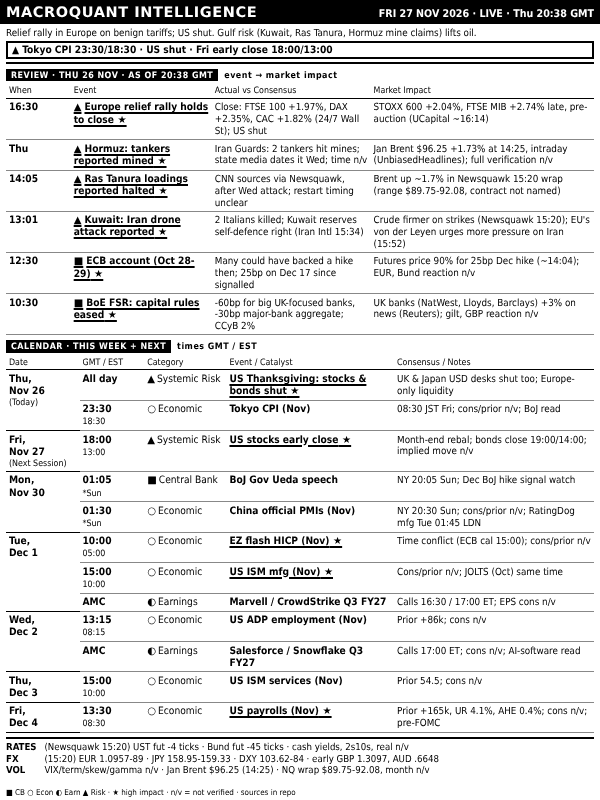
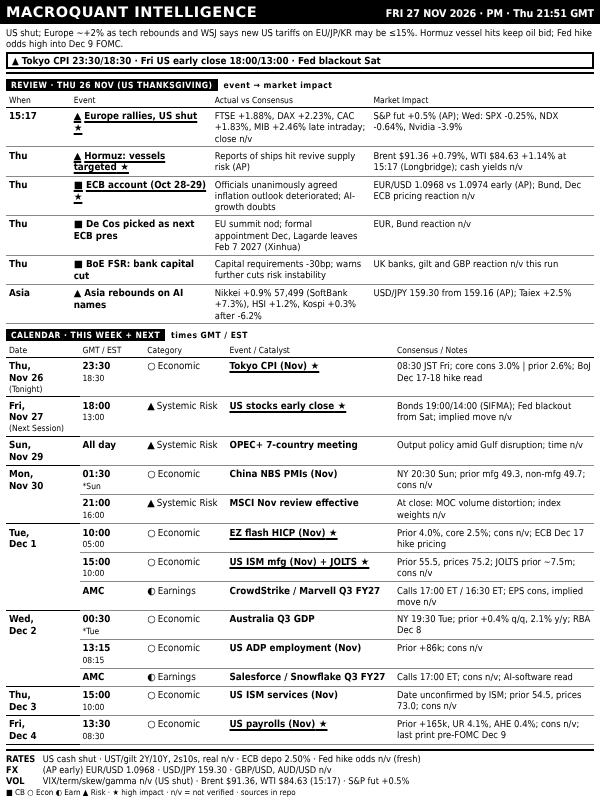
dashboard: FRI 27 NOV 2026 PM
Claude-Session: https://claude.ai/code/session_016SJqa5stF1cvDCcfLSi4AD

Changed region(s): [[0.0, 0.0, 0.99, 1.0], [0.0, 0.75, 0.06, 0.8125], [0.0, 0.6562, 0.06, 0.7188]]

diff --git a/out/dashboard.html b/out/dashboard.html
@@ -38,12 +38,12 @@ table.bd{border-collapse:collapse;width:100%;table-layout:fixed;margin-top:1px}
 </style></head><body>
 <div id="root">
  <div class="hdr"><span class="t">MACROQUANT INTELLIGENCE</span>
-  <span class="r">FRI 27 NOV 2026 · LIVE · Thu 20:38 GMT</span></div>
- <div class="ban"><div class="rg">Relief rally in Europe on benign tariffs; US shut. Gulf risk (Kuwait, Ras Tanura, Hormuz mine claims) lifts oil.</div><div class="al">▲ Tokyo CPI 23:30/18:30 · US shut · Fri early close 18:00/13:00</div></div>
- <div class="sl"><span>REVIEW · THU 26 NOV · AS OF 20:38 GMT</span>event → market impact</div><table class="bd rv"><colgroup><col style="width:11%"><col style="width:24%"><col style="width:27%"><col></colgroup><tr><th>When</th><th>Event</th><th>Actual vs Consensus</th><th>Market Impact</th></tr><tr class="h"><td class="tm"><b>16:30</b></td><td class="ev"><i>▲</i>Europe relief rally holds to close</td><td class="ac">Close: FTSE 100 +1.97%, DAX +2.35%, CAC +1.82% (24/7 Wall St); US shut</td><td class="nt">STOXX 600 +2.04%, FTSE MIB +2.74% late, pre-auction (UCapital ~16:14)</td></tr><tr class="h"><td class="tm"><b>Thu</b></td><td class="ev"><i>▲</i>Hormuz: tankers reported mined</td><td class="ac">Iran Guards: 2 tankers hit mines; state media dates it Wed; time n/v</td><td class="nt">Jan Brent $96.25 +1.73% at 14:25, intraday (UnbiasedHeadlines); full verification n/v</td></tr><tr class="h"><td class="tm"><b>14:05</b></td><td class="ev"><i>▲</i>Ras Tanura loadings reported halted</td><td class="ac">CNN sources via Newsquawk, after Wed attack; restart timing unclear</td><td class="nt">Brent up ~1.7% in Newsquawk 15:20 wrap (range $89.75-92.08, contract not named)</td></tr><tr class="h"><td class="tm"><b>13:01</b></td><td class="ev"><i>▲</i>Kuwait: Iran drone attack reported</td><td class="ac">2 Italians killed; Kuwait reserves self-defence right (Iran Intl 15:34)</td><td class="nt">Crude firmer on strikes (Newsquawk 15:20); EU's von der Leyen urges more pressure on Iran (15:52)</td></tr><tr class="h"><td class="tm"><b>12:30</b></td><td class="ev"><i>■</i>ECB account (Oct 28-29)</td><td class="ac">Many could have backed a hike then; 25bp on Dec 17 since signalled</td><td class="nt">Futures price 90% for 25bp Dec hike (~14:04); EUR, Bund reaction n/v</td></tr><tr class="h"><td class="tm"><b>10:30</b></td><td class="ev"><i>■</i>BoE FSR: capital rules eased</td><td class="ac">-60bp for big UK-focused banks, -30bp major-bank aggregate; CCyB 2%</td><td class="nt">UK banks (NatWest, Lloyds, Barclays) +3% on news (Reuters); gilt, GBP reaction n/v</td></tr></table>
+  <span class="r">FRI 27 NOV 2026 · PM · Thu 21:51 GMT</span></div>
+ <div class="ban"><div class="rg">US shut; Europe ~+2% as tech rebounds and WSJ says new US tariffs on EU/JP/KR may be ≤15%. Hormuz vessel hits keep oil bid; Fed hike odds high into Dec 9 FOMC.</div><div class="al">▲ Tokyo CPI 23:30/18:30 · Fri US early close 18:00/13:00 · Fed blackout Sat</div></div>
+ <div class="sl"><span>REVIEW · THU 26 NOV (US THANKSGIVING)</span>event → market impact</div><table class="bd rv"><colgroup><col style="width:11%"><col style="width:24%"><col style="width:27%"><col></colgroup><tr><th>When</th><th>Event</th><th>Actual vs Consensus</th><th>Market Impact</th></tr><tr class="h"><td class="tm"><b>15:17</b></td><td class="ev"><i>▲</i>Europe rallies, US shut</td><td class="ac">FTSE +1.88%, DAX +2.23%, CAC +1.83%, MIB +2.46% late intraday; close n/v</td><td class="nt">S&amp;P fut +0.5% (AP); Wed: SPX -0.25%, NDX -0.64%, Nvidia -3.9%</td></tr><tr class="h"><td class="tm"><b>Thu</b></td><td class="ev"><i>▲</i>Hormuz: vessels targeted</td><td class="ac">Reports of ships hit revive supply risk (AP)</td><td class="nt">Brent $91.36 +0.79%, WTI $84.63 +1.14% at 15:17 (Longbridge); cash yields n/v</td></tr><tr class="h"><td class="tm"><b>Thu</b></td><td class="ev"><i>■</i>ECB account (Oct 28-29)</td><td class="ac">Officials unanimously agreed inflation outlook deteriorated; AI-growth doubts</td><td class="nt">EUR/USD 1.0968 vs 1.0974 early (AP); Bund, Dec ECB pricing reaction n/v</td></tr><tr><td class="tm"><b>Thu</b></td><td class="ev"><i>■</i>De Cos picked as next ECB pres</td><td class="ac">EU summit nod; formal appointment Dec, Lagarde leaves Feb 7 2027 (Xinhua)</td><td class="nt">EUR, Bund reaction n/v</td></tr><tr><td class="tm"><b>Thu</b></td><td class="ev"><i>■</i>BoE FSR: bank capital cut</td><td class="ac">Capital requirements -30bp; warns further cuts risk instability</td><td class="nt">UK banks, gilt and GBP reaction n/v this run</td></tr><tr><td class="tm"><b>Asia</b></td><td class="ev"><i>▲</i>Asia rebounds on AI names</td><td class="ac">Nikkei +0.9% 57,499 (SoftBank +7.3%), HSI +1.2%, Kospi +0.3% after -6.2%</td><td class="nt">USD/JPY 159.30 from 159.16 (AP); Taiex +2.5%</td></tr></table>
  <div class="sl"><span>CALENDAR · THIS WEEK + NEXT</span>times GMT / EST</div>
- <table class="bd"><colgroup><col style="width:12.5%"><col style="width:11%"><col style="width:14%"><col style="width:28.5%"><col></colgroup><tr><th>Date</th><th>GMT / EST</th><th>Category</th><th>Event / Catalyst</th><th>Consensus / Notes</th></tr><tr class="g0 h"><td class="dt" rowspan="2">Thu,<br>Nov&nbsp;26<span class="tg">(Today)</span></td><td class="tm"><b>All day</b></td><td class="ct"><i>▲</i>Systemic Risk</td><td class="ev">US Thanksgiving: stocks &amp; bonds shut</td><td class="nt">UK &amp; Japan USD desks shut too; Europe-only liquidity</td></tr><tr class=""><td class="tm"><b>23:30</b><span>18:30</span></td><td class="ct"><i>○</i>Economic</td><td class="ev">Tokyo CPI (Nov)</td><td class="nt">08:30 JST Fri; cons/prior n/v; BoJ read</td></tr><tr class="g0 h"><td class="dt" rowspan="1">Fri,<br>Nov&nbsp;27<span class="tg">(Next Session)</span></td><td class="tm"><b>18:00</b><span>13:00</span></td><td class="ct"><i>▲</i>Systemic Risk</td><td class="ev">US stocks early close</td><td class="nt">Month-end rebal; bonds close 19:00/14:00; implied move n/v</td></tr><tr class="g0"><td class="dt" rowspan="2">Mon,<br>Nov&nbsp;30</td><td class="tm"><b>01:05</b><span>*Sun</span></td><td class="ct"><i>■</i>Central Bank</td><td class="ev">BoJ Gov Ueda speech</td><td class="nt">NY 20:05 Sun; Dec BoJ hike signal watch</td></tr><tr class=""><td class="tm"><b>01:30</b><span>*Sun</span></td><td class="ct"><i>○</i>Economic</td><td class="ev">China official PMIs (Nov)</td><td class="nt">NY 20:30 Sun; cons/prior n/v; RatingDog mfg Tue 01:45 LDN</td></tr><tr class="g0 h"><td class="dt" rowspan="3">Tue,<br>Dec&nbsp;1</td><td class="tm"><b>10:00</b><span>05:00</span></td><td class="ct"><i>○</i>Economic</td><td class="ev">EZ flash HICP (Nov)</td><td class="nt">Time conflict (ECB cal 15:00); cons/prior n/v</td></tr><tr class="h"><td class="tm"><b>15:00</b><span>10:00</span></td><td class="ct"><i>○</i>Economic</td><td class="ev">US ISM mfg (Nov)</td><td class="nt">Cons/prior n/v; JOLTS (Oct) same time</td></tr><tr class=""><td class="tm"><b>AMC</b></td><td class="ct"><i>◐</i>Earnings</td><td class="ev">Marvell / CrowdStrike Q3 FY27</td><td class="nt">Calls 16:30 / 17:00 ET; EPS cons n/v</td></tr><tr class="g0"><td class="dt" rowspan="2">Wed,<br>Dec&nbsp;2</td><td class="tm"><b>13:15</b><span>08:15</span></td><td class="ct"><i>○</i>Economic</td><td class="ev">US ADP employment (Nov)</td><td class="nt">Prior +86k; cons n/v</td></tr><tr class=""><td class="tm"><b>AMC</b></td><td class="ct"><i>◐</i>Earnings</td><td class="ev">Salesforce / Snowflake Q3 FY27</td><td class="nt">Calls 17:00 ET; cons n/v; AI-software read</td></tr><tr class="g0"><td class="dt" rowspan="1">Thu,<br>Dec&nbsp;3</td><td class="tm"><b>15:00</b><span>10:00</span></td><td class="ct"><i>○</i>Economic</td><td class="ev">US ISM services (Nov)</td><td class="nt">Prior 54.5; cons n/v</td></tr><tr class="g0 h"><td class="dt" rowspan="1">Fri,<br>Dec&nbsp;4</td><td class="tm"><b>13:30</b><span>08:30</span></td><td class="ct"><i>○</i>Economic</td><td class="ev">US payrolls (Nov)</td><td class="nt">Prior +165k, UR 4.1%, AHE 0.4%; cons n/v; pre-FOMC</td></tr></table>
- <div class="lv"><div><b>RATES</b>(Newsquawk 15:20) UST fut -4 ticks · Bund fut -45 ticks · cash yields, 2s10s, real n/v</div><div><b>FX</b>(15:20) EUR 1.0957-89 · JPY 158.95-159.33 · DXY 103.62-84 · early GBP 1.3097, AUD .6648</div><div><b>VOL</b>VIX/term/skew/gamma n/v · Jan Brent $96.25 (14:25) · NQ wrap $89.75-92.08, month n/v</div></div>
+ <table class="bd"><colgroup><col style="width:12.5%"><col style="width:11%"><col style="width:14%"><col style="width:28.5%"><col></colgroup><tr><th>Date</th><th>GMT / EST</th><th>Category</th><th>Event / Catalyst</th><th>Consensus / Notes</th></tr><tr class="g0 h"><td class="dt" rowspan="1">Thu,<br>Nov&nbsp;26<span class="tg">(Tonight)</span></td><td class="tm"><b>23:30</b><span>18:30</span></td><td class="ct"><i>○</i>Economic</td><td class="ev">Tokyo CPI (Nov)</td><td class="nt">08:30 JST Fri; core cons 3.0% | prior 2.6%; BoJ Dec 17-18 hike read</td></tr><tr class="g0 h"><td class="dt" rowspan="1">Fri,<br>Nov&nbsp;27<span class="tg">(Next Session)</span></td><td class="tm"><b>18:00</b><span>13:00</span></td><td class="ct"><i>▲</i>Systemic Risk</td><td class="ev">US stocks early close</td><td class="nt">Bonds 19:00/14:00 (SIFMA); Fed blackout from Sat; implied move n/v</td></tr><tr class="g0"><td class="dt" rowspan="1">Sun,<br>Nov&nbsp;29</td><td class="tm"><b>All day</b></td><td class="ct"><i>▲</i>Systemic Risk</td><td class="ev">OPEC+ 7-country meeting</td><td class="nt">Output policy amid Gulf disruption; time n/v</td></tr><tr class="g0"><td class="dt" rowspan="2">Mon,<br>Nov&nbsp;30</td><td class="tm"><b>01:30</b><span>*Sun</span></td><td class="ct"><i>○</i>Economic</td><td class="ev">China NBS PMIs (Nov)</td><td class="nt">NY 20:30 Sun; prior mfg 49.3, non-mfg 49.7; cons n/v</td></tr><tr class=""><td class="tm"><b>21:00</b><span>16:00</span></td><td class="ct"><i>▲</i>Systemic Risk</td><td class="ev">MSCI Nov review effective</td><td class="nt">At close: MOC volume distortion; index weights n/v</td></tr><tr class="g0 h"><td class="dt" rowspan="3">Tue,<br>Dec&nbsp;1</td><td class="tm"><b>10:00</b><span>05:00</span></td><td class="ct"><i>○</i>Economic</td><td class="ev">EZ flash HICP (Nov)</td><td class="nt">Prior 4.0%, core 2.5%; cons n/v; ECB Dec 17 hike pricing</td></tr><tr class="h"><td class="tm"><b>15:00</b><span>10:00</span></td><td class="ct"><i>○</i>Economic</td><td class="ev">US ISM mfg (Nov) + JOLTS</td><td class="nt">Prior 55.5, prices 75.2; JOLTS prior ~7.5m; cons n/v</td></tr><tr class=""><td class="tm"><b>AMC</b></td><td class="ct"><i>◐</i>Earnings</td><td class="ev">CrowdStrike / Marvell Q3 FY27</td><td class="nt">Calls 17:00 ET / 16:30 ET; EPS cons, implied move n/v</td></tr><tr class="g0"><td class="dt" rowspan="3">Wed,<br>Dec&nbsp;2</td><td class="tm"><b>00:30</b><span>*Tue</span></td><td class="ct"><i>○</i>Economic</td><td class="ev">Australia Q3 GDP</td><td class="nt">NY 19:30 Tue; prior +0.4% q/q, 2.1% y/y; RBA Dec 8</td></tr><tr class=""><td class="tm"><b>13:15</b><span>08:15</span></td><td class="ct"><i>○</i>Economic</td><td class="ev">US ADP employment (Nov)</td><td class="nt">Prior +86k; cons n/v</td></tr><tr class=""><td class="tm"><b>AMC</b></td><td class="ct"><i>◐</i>Earnings</td><td class="ev">Salesforce / Snowflake Q3 FY27</td><td class="nt">Calls 17:00 ET; cons n/v; AI-software read</td></tr><tr class="g0"><td class="dt" rowspan="1">Thu,<br>Dec&nbsp;3</td><td class="tm"><b>15:00</b><span>10:00</span></td><td class="ct"><i>○</i>Economic</td><td class="ev">US ISM services (Nov)</td><td class="nt">Date unconfirmed by ISM; prior 54.5, prices 73.0; cons n/v</td></tr><tr class="g0 h"><td class="dt" rowspan="1">Fri,<br>Dec&nbsp;4</td><td class="tm"><b>13:30</b><span>08:30</span></td><td class="ct"><i>○</i>Economic</td><td class="ev">US payrolls (Nov)</td><td class="nt">Prior +165k, UR 4.1%, AHE 0.4%; cons n/v; last print pre-FOMC Dec 9</td></tr></table>
+ <div class="lv"><div><b>RATES</b>US cash shut · UST/gilt 2Y/10Y, 2s10s, real n/v · ECB depo 2.50% · Fed hike odds n/v (fresh)</div><div><b>FX</b>(AP early) EUR/USD 1.0968 · USD/JPY 159.30 · GBP/USD, AUD/USD n/v</div><div><b>VOL</b>VIX/term/skew/gamma n/v (US shut) · Brent $91.36, WTI $84.63 (15:17) · S&amp;P fut +0.5%</div></div>
 </div>
 <div class="foot">■ CB ○ Econ ◐ Earn ▲ Risk · ★ high impact · n/v = not verified · sources in repo</div>
 </body></html>
